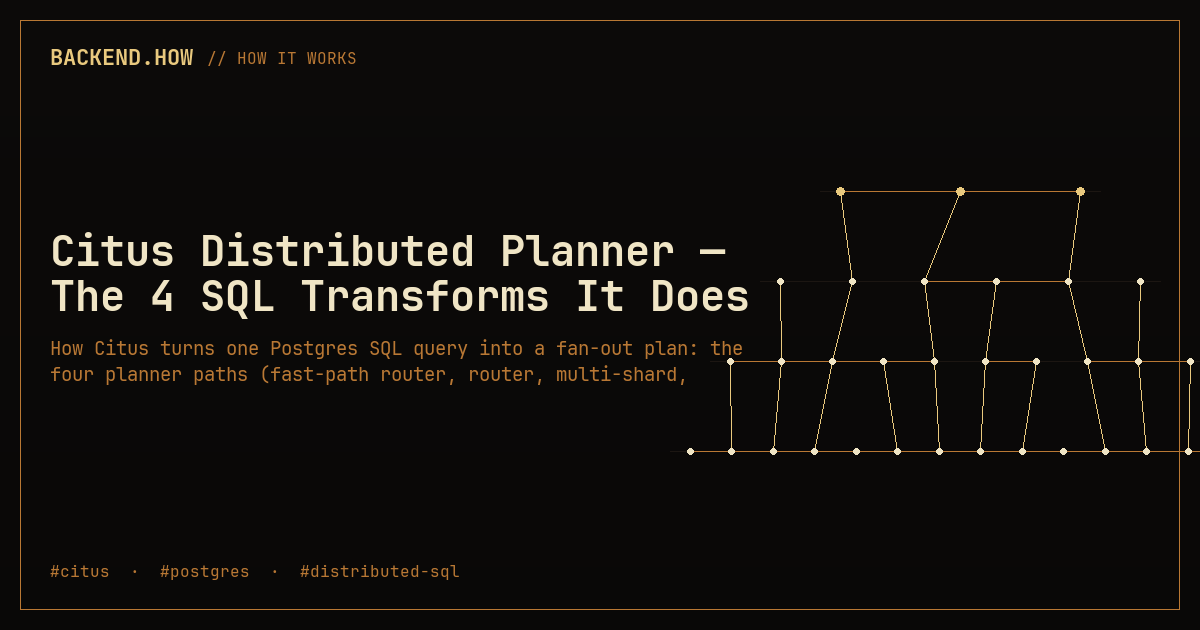
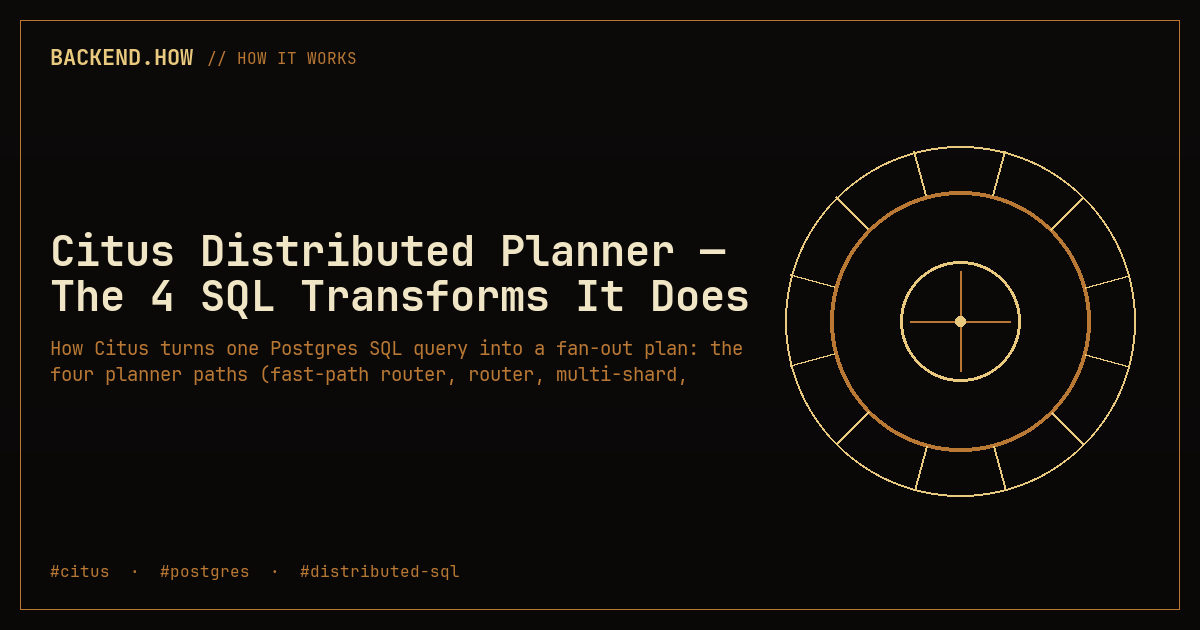
Iter 3 (cross-section consistency): §5.1 still claimed 150 bytes/entry → 75 manifests, contradicting iter-2's §1 update of 300 bytes/entry → 133 manifests. Reconciled to 300 bytes throughout: 8,388,608 / 300 ≈ 27,962 entries per manifest; 4,194,304 / 27,962 ≈ 150 manifests; manifest-list size 150 × 

diff --git a/scripts/og-images.py b/scripts/og-images.py
@@ -487,38 +487,38 @@ def pick_motif(slug: str, tags: list[str]) -> str:
     if has("pgvector", "hnsw", "ann", "vector"):
         return "hnsw_layers"
     # Containers / k8s — image layers
-    if "kubernetes" in text or "k8s" in text or "containers" in text or "distroless" in text or "wolfi" in text:
+    if has("kubernetes", "k8s", "containers", "distroless", "wolfi"):
         return "stacked_layers"
     # Iceberg / data-lake / parquet / formats — tree of immutable files
-    if "iceberg" in text or "data-lake" in text or "parquet" in text or "snapshots" in text or "schema-evolution" in text:
+    if has("iceberg", "snapshots") or "data-lake" in " ".join(tags).lower():
         return "branching_tree"
-    # Distributed databases / sharding — radial coordinator + workers
-    if "citus" in text or "scylla" in text or "seastar" in text or "shard" in text or "distributed-sql" in text or "cassandra" in text:
+    # Distributed DBs / sharding — radial coordinator + workers
+    if has("citus", "scylla", "seastar", "shard", "cassandra") or "shard-per-core" in " ".join(tags).lower() or "distributed-sql" in " ".join(tags).lower():
         return "spoke_wheel"
-    if "valkey" in text or "redis" in text or "cache" in text or "car" in text:
+    if has("valkey", "redis", "cache", "car"):
         return "nested_squares"
-    if "stereogram" in text or "vision" in text or "dark-mode" in text:
+    if has("stereogram", "vision") or "dark-mode" in " ".join(tags).lower():
         return "dotted_field"
-    if "ssh" in text or "ec2" in text or "aws" in text or "devops" in text:
+    if has("ssh", "ec2", "aws", "devops"):
         return "keyhole"
-    if "running" in text or "health" in text:
+    if has("running", "health"):
         return "dune_ridges"
-    if "tiger-style" in text or "tiger style" in text or "repost" in text:
+    if has("repost") or "tiger-style" in " ".join(tags).lower():
         return "spoke_wheel"  # tiger-beetle adjacent
-    if "psycholog" in text or "help" in text:
+    if has("psychology", "help"):
         return "concentric_clock"
     # Learning / first-principles BEFORE the gyan/content fallback
-    if "first-principles" in text or "learn" in text or "backend" in text:
+    if has("backend") or "first-principles" in " ".join(tags).lower():
         return "branching_tree"
-    # Postgres-specific (partitioning, partman, time-series, query optimization)
-    if "postgres" in text or " db" in text or "query" in text or "partition" in text or "time-series" in text or "brin" in text:
+    # Postgres-specific (partitioning, partman, time-series, query optimization, BRIN)
+    if has("postgres", "db", "query", "partitioning", "brin", "partman") or "time-series" in " ".join(tags).lower():
         return "grid_cells"
-    if "creating" in text or "content" in text or "writing" in text:
+    if has("creating", "content", "writing"):
         return "text_columns"
-    if "system design" in text or "system-design" in text or "hld" in text or "geospatial" in text or "dating" in text:
+    if has("hld", "geospatial", "dating") or "system-design" in " ".join(tags).lower() or "system design" in " ".join(tags).lower():
         return "radial_polygon"
     # Generic fallback for `gyan`/`engineering` posts that didn't match above
-    if "gyan" in text or "engineering" in text:
+    if has("gyan", "engineering"):
         return "concentric_clock"
     return "radial_polygon"
 

diff --git a/.autoresearch/score.py b/.autoresearch/score.py
@@ -704,6 +704,40 @@ def range_bounds_defects(body: str) -> int:
     return n
 
 
+CLAIM_RE = re.compile(
+    r"\b(measured|observed|benchmarked|profiled|empirically)\b",
+    re.IGNORECASE,
+)
+
+
+def claim_audit_defects(body: str) -> int:
+    """Words like 'measured/observed/benchmarked' assert first-hand evidence —
+    they must be backed by a hyperlink, footnote ref, or `commit <hash>`
+    within the same paragraph (or in a quoted/cited surrounding sentence)."""
+    paragraphs = re.split(r"\n\s*\n", body)
+    n = 0
+    for p in paragraphs:
+        if p.strip().startswith("```") or "|" in p[:5]:
+            continue
+        hits = CLAIM_RE.findall(p)
+        if not hits:
+            continue
+        # accept any of: hyperlink, footnote ref, "commit <hex>", "in <ref-post>"
+        if re.search(
+            r"\[[^\]]+\]\([^)]+\)|https?://|\[\^[\w-]+\]|commit\s+`?[\dA-Fa-f]{6,}|"
+            r"\bbench/|\bautoresearch\b",
+            p,
+        ):
+            continue
+        n += len(hits)
+        for h in hits:
+            print(
+                f"DEBUG unbacked_claim: '{h}' in paragraph without citation",
+                file=sys.stderr,
+            )
+    return n
+
+
 def footnote_balance_defects(body: str) -> int:
     """Every [^name] reference must have a matching [^name]: definition."""
     refs = set(re.findall(r"\[\^([\w-]+)\](?!:)", body))
@@ -754,6 +788,7 @@ def main() -> int:
     cats["bad_anchors"] = anchor_check_defects(body)
     cats["defaults_mismatch"] = defaults_consistency_defects(body, cached_repo)
     cats["range_inverted"] = range_bounds_defects(body)
+    cats["unbacked_claims"] = claim_audit_defects(body)
     cats["frontmatter"] = frontmatter_defects(fm)
 
     # Weights: code-correctness > math-grounding > polish

diff --git a/content/posts/citus-distributed-planner/index.md b/content/posts/citus-distributed-planner/index.md
@@ -380,18 +380,17 @@ column at execution time, picks the shard, and dispatches.
 
 ## Path 2 — multi-shard router (UPDATE)
 
-User query (modify path):
+User query (modify path), verbatim from
+`src/test/regress/expected/multi_explain.out` line 1128:
 
 ```sql
 -- src/test/regress/expected/multi_explain.out
-DELETE FROM lineitem_hash_part lh
-WHERE EXISTS (
-  SELECT 1 FROM orders_hash_part oh
-  WHERE oh.o_orderkey = lh.l_orderkey AND oh.o_orderkey > 100
-);
+DELETE FROM lineitem_hash_part
+USING orders_hash_part
+WHERE orders_hash_part.o_orderkey = lineitem_hash_part.l_orderkey;
 ```
 
-EXPLAIN output (slightly trimmed for the page):
+EXPLAIN output, also from the same file lines 1131–1142:
 
 ```text
 Custom Scan (Citus Adaptive)
@@ -402,9 +401,9 @@ Custom Scan (Citus Adaptive)
         ->  Delete on lineitem_hash_part_360041 lineitem_hash_part
               ->  Hash Join
                     Hash Cond: (lineitem_hash_part.l_orderkey = orders_hash_part.o_orderkey)
-                    ->  Seq Scan on lineitem_hash_part_360041
+                    ->  Seq Scan on lineitem_hash_part_360041 lineitem_hash_part
                     ->  Hash
-                          ->  Seq Scan on orders_hash_part_360045
+                          ->  Seq Scan on orders_hash_part_360045 orders_hash_part
 ```
 
 `Task Count: 4` — Citus dispatched the same query, with shard names
